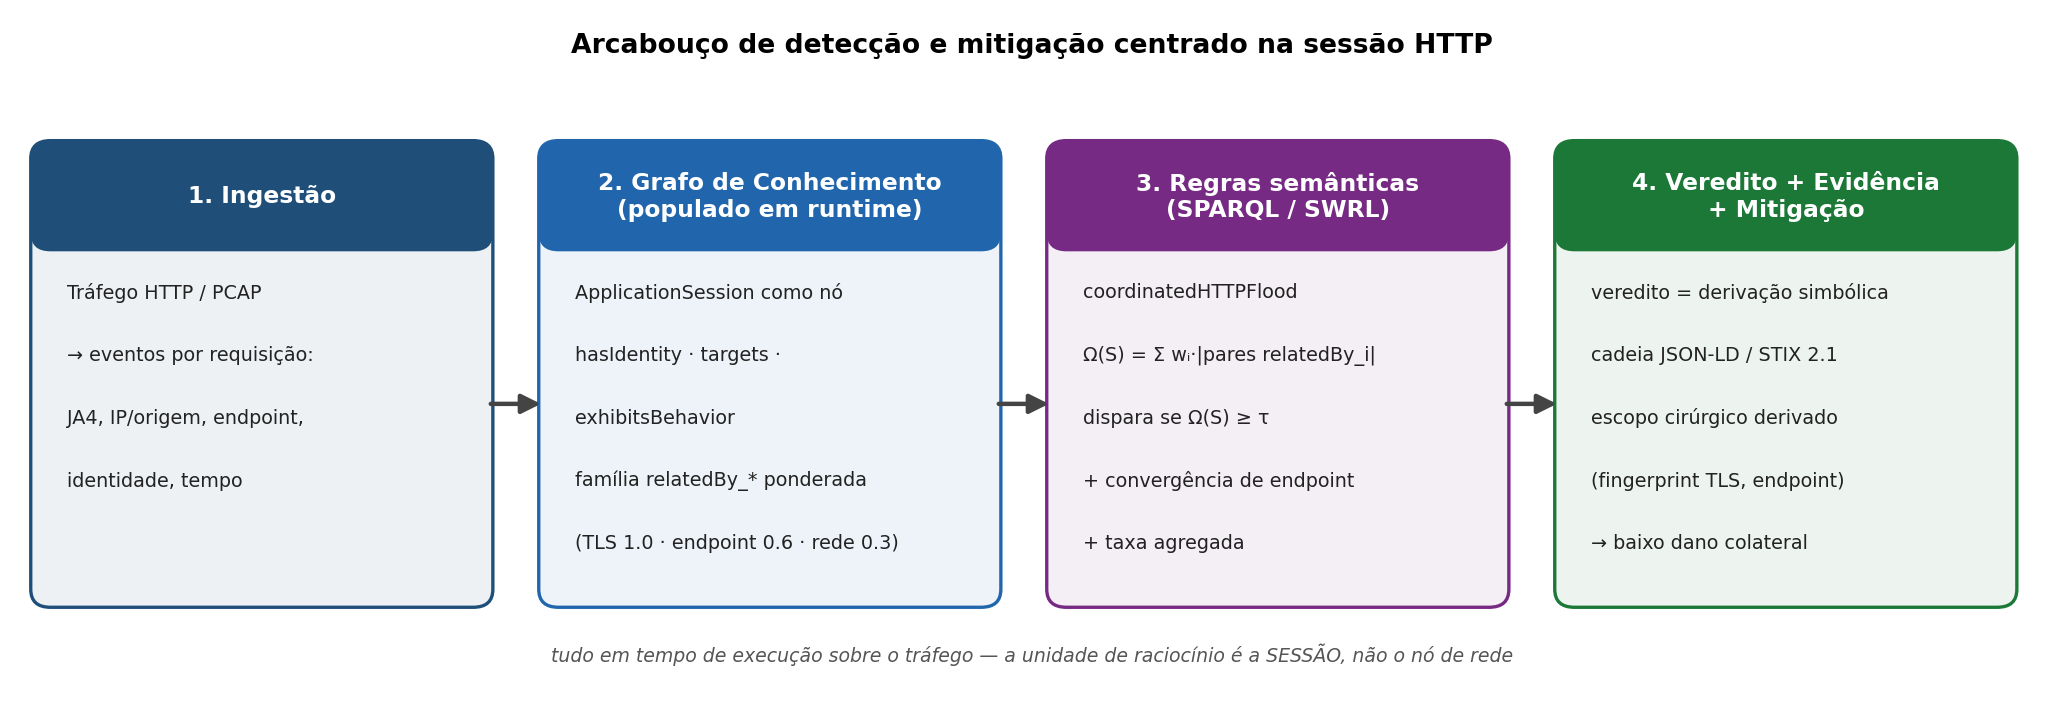
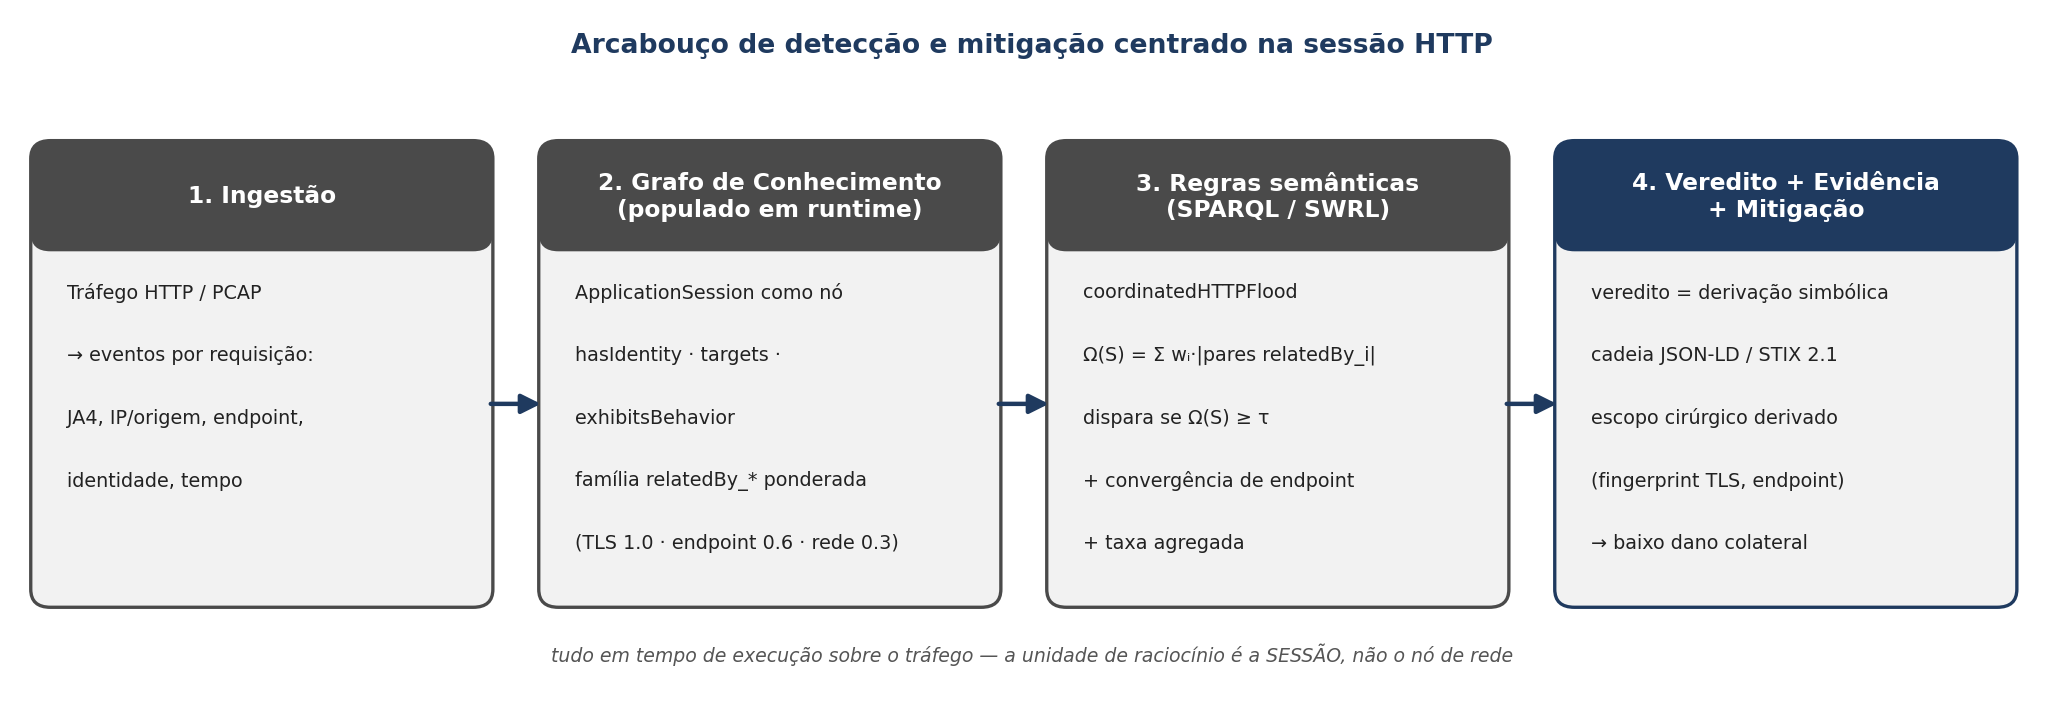
figures (candidates): grayscale + strategic navy palette (architecture + figC)
Per review: greyscale with navy-blue only in strategic parts. Architecture diagram —
stages 1-3 gray headers, stage 4 (the contribution) navy, navy arrows/title. figC —
'ML por sessão (baseline)' in gray, 'cross-session (nosso)' in navy; label clarified to
always say 'ML por sessão'. (figC red was OUR per-session ML baseline, NOT KLAGE; KLAGE
stays only in the §5.5 table.) Not in .tex yet.

diff --git a/experiments/figures-candidatas/make_architecture.py b/experiments/figures-candidatas/make_architecture.py
@@ -6,28 +6,35 @@ matplotlib.use("Agg")
 import matplotlib.pyplot as plt
 from matplotlib.patches import FancyBboxPatch, FancyArrowPatch
 
+# Paleta: tons de cinza + navy blue só em partes estratégicas (título, setas, destaque).
+NAVY = "#1f3a5f"
+HEADER = "#4a4a4a"   # cinza escuro p/ cabeçalhos
+BODY = "#f2f2f2"     # cinza claro p/ corpo
+BORDER = "#8c8c8c"
+TEXT = "#222222"
+
 STAGES = [
-    ("1. Ingestão", "#1f4e79", [
+    ("1. Ingestão", [
         "Tráfego HTTP / PCAP",
         "→ eventos por requisição:",
         "JA4, IP/origem, endpoint,",
         "identidade, tempo",
     ]),
-    ("2. Grafo de Conhecimento\n(populado em runtime)", "#2166ac", [
+    ("2. Grafo de Conhecimento\n(populado em runtime)", [
         "ApplicationSession como nó",
         "hasIdentity · targets ·",
         "exhibitsBehavior",
         "família relatedBy_* ponderada",
         "(TLS 1.0 · endpoint 0.6 · rede 0.3)",
     ]),
-    ("3. Regras semânticas\n(SPARQL / SWRL)", "#762a83", [
+    ("3. Regras semânticas\n(SPARQL / SWRL)", [
         "coordinatedHTTPFlood",
         "Ω(S) = Σ wᵢ·|pares relatedBy_i|",
         "dispara se Ω(S) ≥ τ",
         "+ convergência de endpoint",
         "+ taxa agregada",
     ]),
-    ("4. Veredito + Evidência\n+ Mitigação", "#1b7837", [
+    ("4. Veredito + Evidência\n+ Mitigação", [
         "veredito = derivação simbólica",
         "cadeia JSON-LD / STIX 2.1",
         "escopo cirúrgico derivado",
@@ -42,29 +49,29 @@ def main():
     ax.set_xlim(0, 4 * 3.1); ax.set_ylim(0, 4.6); ax.axis("off")
     w, h, x0, y = 2.7, 3.0, 0.15, 0.7
     centers = []
-    for i, (title, color, items) in enumerate(STAGES):
+    for i, (title, items) in enumerate(STAGES):
         x = x0 + i * 3.1
+        # estágio 4 (contribuição) recebe o destaque navy; demais em cinza
+        head = NAVY if i == 3 else HEADER
         box = FancyBboxPatch((x, y), w, h, boxstyle="round,pad=0.06,rounding_size=0.12",
-                             linewidth=1.5, edgecolor=color, facecolor=color + "14")
+                             linewidth=1.5, edgecolor=head, facecolor=BODY)
         ax.add_patch(box)
-        # header
         ax.add_patch(FancyBboxPatch((x, y + h - 0.62), w, 0.62,
                      boxstyle="round,pad=0.06,rounding_size=0.12",
-                     linewidth=0, facecolor=color))
+                     linewidth=0, facecolor=head))
         ax.text(x + w/2, y + h - 0.31, title, ha="center", va="center",
                 color="white", fontsize=10.5, fontweight="bold")
-        # body
         for j, it in enumerate(items):
             ax.text(x + 0.16, y + h - 0.95 - j*0.42, it, ha="left", va="center",
-                    fontsize=8.6, color="#222")
+                    fontsize=8.6, color=TEXT)
         centers.append((x + w, y + h/2 - 0.3))
-    # setas entre estágios
+    # setas (navy estratégico)
     for i in range(3):
         x_end = centers[i][0]
         ax.add_patch(FancyArrowPatch((x_end + 0.02, 2.0), (x_end + 0.38, 2.0),
-                     arrowstyle="-|>", mutation_scale=18, linewidth=2, color="#444"))
+                     arrowstyle="-|>", mutation_scale=18, linewidth=2, color=NAVY))
     ax.text(4*3.1/2, 4.35, "Arcabouço de detecção e mitigação centrado na sessão HTTP",
-            ha="center", fontsize=12, fontweight="bold")
+            ha="center", fontsize=12, fontweight="bold", color=NAVY)
     ax.text(4*3.1/2, 0.28, "tudo em tempo de execução sobre o tráfego — a unidade de raciocínio é a SESSÃO, não o nó de rede",
             ha="center", fontsize=8.5, style="italic", color="#555")
     fig.tight_layout()

diff --git a/experiments/figures-candidatas/make_figC.py b/experiments/figures-candidatas/make_figC.py
@@ -1,0 +1,43 @@
+#!/usr/bin/env python3
+"""Candidata figC: generalização multi-ataque em dados reais (ML por sessão × nosso).
+Paleta tons de cinza + navy estratégico. NÃO referenciada no .tex (revisão)."""
+import matplotlib
+matplotlib.use("Agg")
+import matplotlib.pyplot as plt
+import numpy as np
+import pandas as pd
+
+NAVY = "#1f3a5f"
+GRAY = "#b0b0b0"   # ML por sessão (baseline)
+CHANCE = "#6e6e6e"
+
+df = pd.read_csv("experiments/sprint-3/results/real_multiattack.csv")
+piv = {}
+for _, r in df.iterrows():
+    piv.setdefault((r["dataset"], r["attack"]), {})[r["config"]] = r["auc"]
+labels = [f"{a} ({d.replace('cic-iot-2023','CIC-IoT2023').replace('cicids2017','CICIDS2017')})"
+          for (d, a) in piv]
+a = [v["a_ml_sem_ontologia"] for v in piv.values()]
+dd = [v["d_completo"] for v in piv.values()]
+y = np.arange(len(labels)); h = 0.38
+
+fig, ax = plt.subplots(figsize=(9, 5))
+ax.barh(y + h/2, a, height=h, color=GRAY, label="ML por sessão (baseline)", zorder=3)
+ax.barh(y - h/2, dd, height=h, color=NAVY, label="arcabouço cross-session (nosso)", zorder=3)
+for i, (va, vd) in enumerate(zip(a, dd)):
+    ax.text(va + .008, i + h/2, f"{va:.2f}".replace(".", ","), va="center", fontsize=8, color="#333")
+    ax.text(min(vd + .008, 1.0), i - h/2, f"{vd:.2f}".replace(".", ","), va="center",
+            fontsize=8, fontweight="bold", color=NAVY)
+ax.axvline(0.5, color=CHANCE, ls="--", lw=1.3)
+ax.text(0.5, len(labels) - .4, " acaso", color=CHANCE, fontsize=8, va="top")
+ax.set_yticks(y); ax.set_yticklabels(labels, fontsize=8)
+ax.set_xlim(0.4, 1.05)
+ax.set_xlabel("ROC AUC por sessão (ataque-vs-benigno, dados reais)")
+ax.set_title("Generalização em dados reais: ML por sessão fica no acaso,\n"
+             "o arcabouço cross-session detecta — 6 ataques, 2 datasets", color=NAVY)
+ax.legend(loc="lower right", fontsize=9)
+ax.grid(axis="x", alpha=.3)
+ax.spines[["top", "right"]].set_visible(False)
+fig.tight_layout()
+fig.savefig("experiments/figures-candidatas/figC_multiataque_real.png", dpi=160)
+print("OK: figC")
